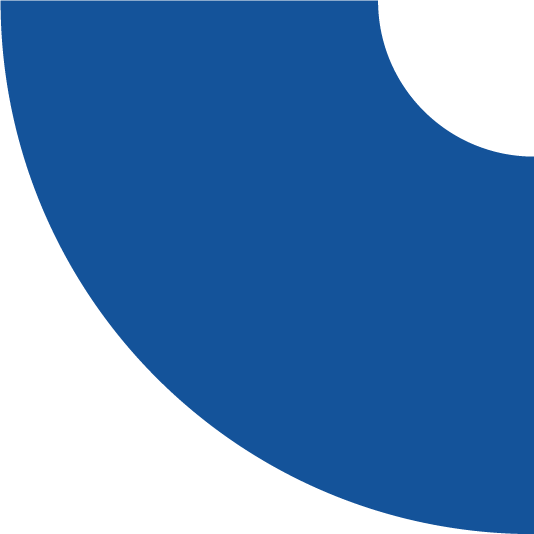
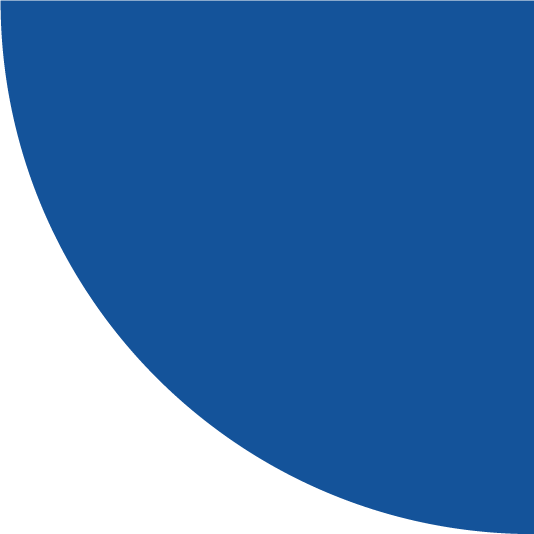
added rounded corners to the snake!

Changed region(s): [[0.6891, 0.0, 1.0, 0.2996]]

diff --git a/snake.js b/snake.js
@@ -76,6 +76,48 @@ export function draw(gameBoard) {
             snakeElement.classList.add(`tail-${facingDir}`);
             gameBoard.appendChild(snakeElement);
             break;
+        } else if (
+            snakeBody[i - 1].x !== snakeBody[i + 1].x &&
+            snakeBody[i - 1].y !== snakeBody[i + 1].y
+        ) {
+            let prevSegment = snakeBody[i - 1];
+            let nextSegment = snakeBody[i + 1];
+
+            let delta_x = prevSegment.x - nextSegment.x; // + means right & - means left
+            let delta_y = prevSegment.y - nextSegment.y; // + means down & - means up
+
+            // for adjacent differences, we are focusing on previous and current segments
+            let adj_delta_y = prevSegment.y - snakeBody[i].y;
+
+            if (delta_x > 0) {
+                if (delta_y > 0) {
+                    if (adj_delta_y === 0) {
+                        snakeElement.classList.add("corner-bottom-left");
+                    } else {
+                        snakeElement.classList.add("corner-top-right");
+                    }
+                } else {
+                    if (adj_delta_y === 0) {
+                        snakeElement.classList.add("corner-top-left");
+                    } else {
+                        snakeElement.classList.add("corner-bottom-right");
+                    }
+                }
+            } else {
+                if (delta_y > 0) {
+                    if (adj_delta_y === 0) {
+                        snakeElement.classList.add("corner-bottom-right");
+                    } else {
+                        snakeElement.classList.add("corner-top-left");
+                    }
+                } else {
+                    if (adj_delta_y === 0) {
+                        snakeElement.classList.add("corner-top-right");
+                    } else {
+                        snakeElement.classList.add("corner-bottom-left");
+                    }
+                }
+            }
         } else {
             snakeElement.classList.add("snake");
         }

diff --git a/styles.css b/styles.css
@@ -101,6 +101,30 @@ input[type="range"] {
     background-repeat: no-repeat;
 }
 
+.corner-top-left {
+    background-image: url("assets/corner-top-left.png");
+    background-size: cover;
+    background-repeat: no-repeat;
+}
+
+.corner-top-right {
+    background-image: url("assets/corner-top-right.png");
+    background-size: cover;
+    background-repeat: no-repeat;
+}
+
+.corner-bottom-left {
+    background-image: url("assets/corner-bottom-left.png");
+    background-size: cover;
+    background-repeat: no-repeat;
+}
+
+.corner-bottom-right {
+    background-image: url("assets/corner-bottom-right.png");
+    background-size: cover;
+    background-repeat: no-repeat;
+}
+
 .food {
     background-image: url("assets/food.png");
     background-size: contain;

diff --git a/index.html b/index.html
@@ -24,7 +24,7 @@
 
         <div class="slider-container">
             <label class="slider-labels" for="grid-size">Grid Size: <span class="slider-value">21</span></label>
-            <input type="range" id="grid-size" min="1" max="301" value="21" step="2" class="slider">
+            <input type="range" id="grid-size" min="13" max="301" value="21" step="2" class="slider">
         </div>
     </div>
 </body>
